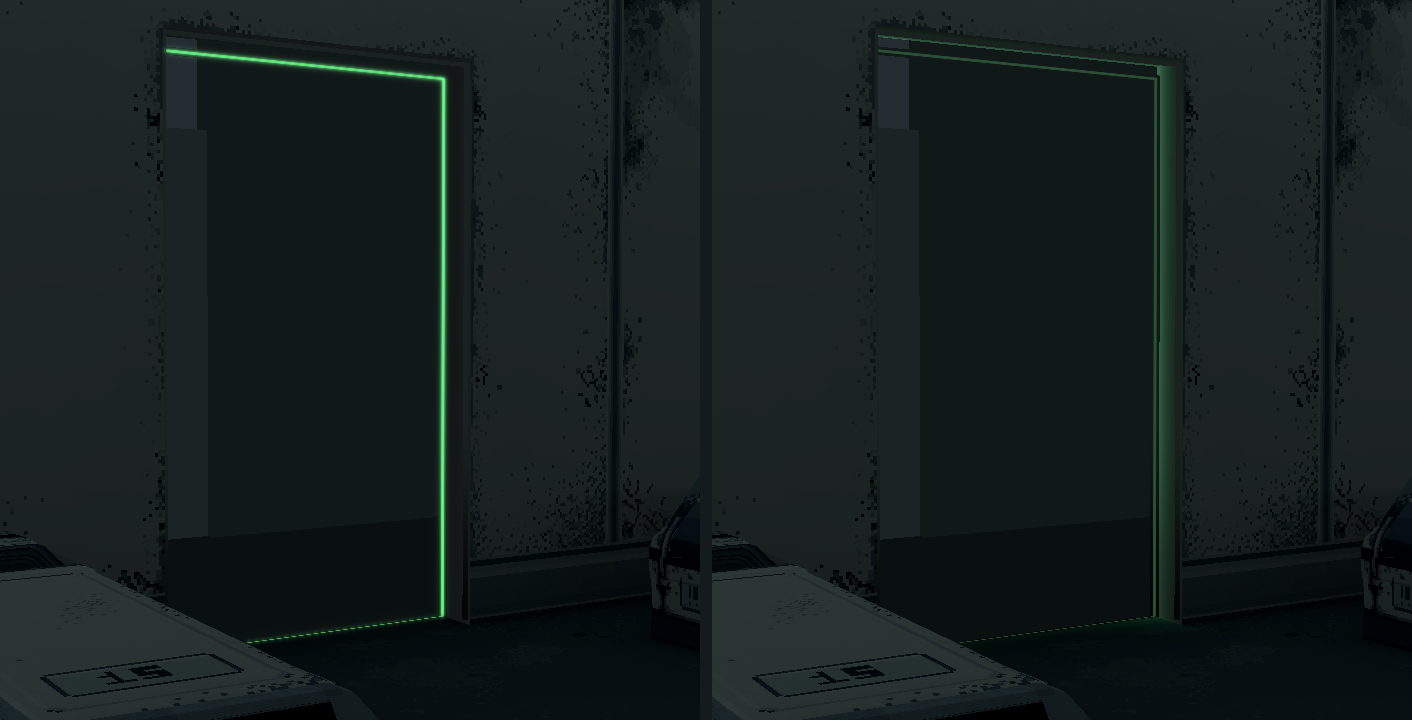
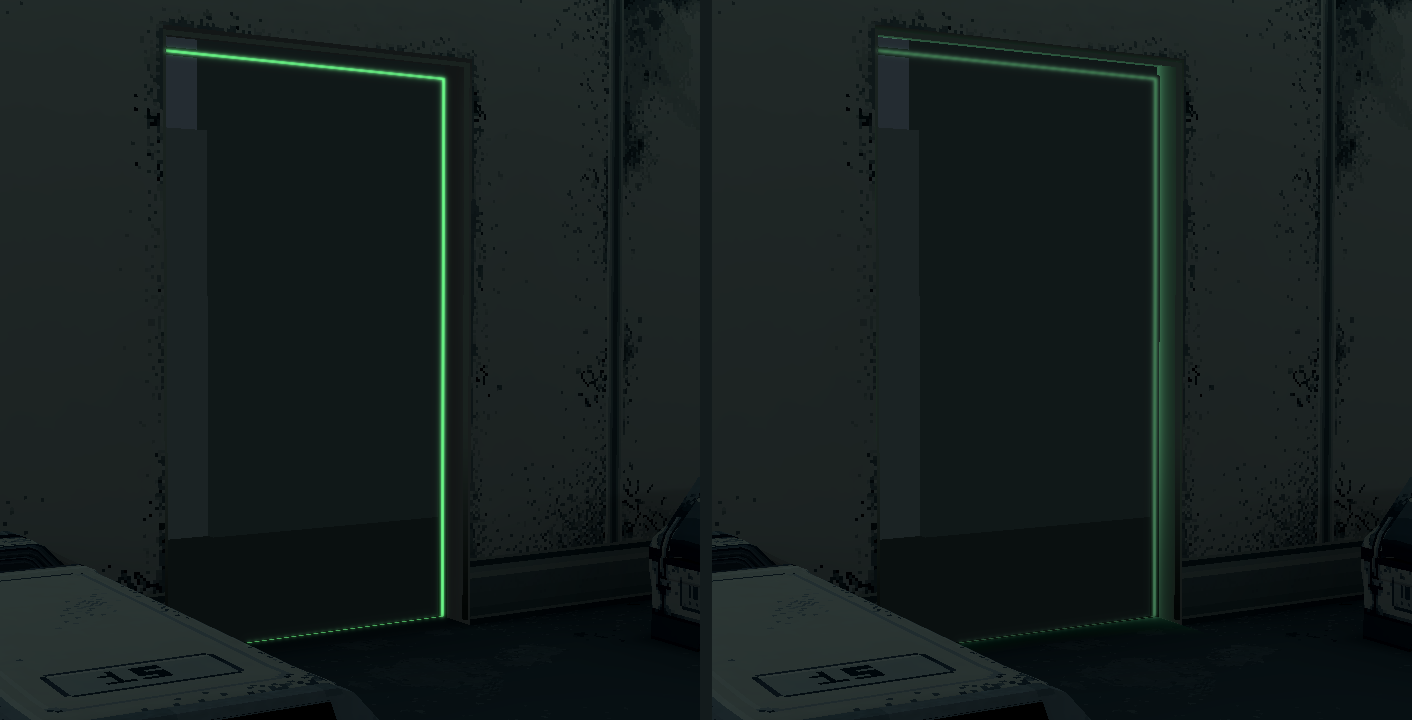
Add a weak halo back to door light B
The user asked for a little glow around the recessed core. The r18 screen
halo is re-enabled for B at strength 1.1 (it follows the 0.45 core), giving
roughly half of r18's halo with the same spread.

Changed region(s): [[0.6232, 0.0611, 0.8414, 0.8556]]

diff --git a/docs/art/PENDING_DECISIONS.md b/docs/art/PENDING_DECISIONS.md
@@ -32,7 +32,7 @@
 |---|---|---|---|---|
 | **角色当前项** | **主角 A 姿势／收袖口 v4** | v3外形方向已沿用；用户确认细密哑光、略挺的涤纶混纺机织布。PixelLab制作正面A姿势并按反馈收袖口；宽袖旧图只留来源，不作最终服装母版。[审图](experiments/protagonist_apose_v4/preview.html)／[3D检查约束](experiments/protagonist_apose_v4/README.md) | 确认袖口、轮廓和A姿势；随后补一致的侧背面，检查完再生成分件几何。 | ⏳ 本角色对话当前项：收袖口成图待审；面料已确认 |
 | **1a** | **Room 1 门面：r32 粉末涂层（颗粒强度）** | 材质已定为 M05-L。r32 用 M05-L 原生底材，叠 r30 的暗痕迹、密封边和小窗，去掉门边亮圈；亮度按墙面校准，0 次新生成。颗粒强度改过两次：第一版太花 → 第一次修订偏淡 → 现在取两者中间值（细颗粒 1.25 倍、痕迹 1.5 倍）。[r32 审图](experiments/room1_door_powder_r32/preview.html)／[说明](experiments/room1_door_powder_r32/README.md) | 确认中间值即可。 | ✅ 11/17 用户确认：采用 r32 中间值（提交 9599ce8） |
-| **1b** | **Room 1 门灯：r17 内侧灯芯＋r18 柔光** | 10/29 交付后一直**没有确认**。r17：暗色灯槽里的细窄绿 LED 漫射芯，替代整框变绿；r18：在 r17 基础上加一层屏幕空间薄柔光。另外小窗的待机色、拒绝红灯节奏，brief 里也还写着 TBD。[r17](experiments/room1_door_inner_light_r17/preview.html)／[r18](experiments/room1_door_soft_glow_r18/preview.html) | 已在 r32 门上重拍（[门灯审图 v1](experiments/room1_door_light_review_v1/preview.html)）。用户认为 r18 太亮、灯条太明显，选择做方案 B：灯芯压暗藏进槽里，门洞内侧泛光；第一版正面偏弱，已把灯芯和泛光调亮一档（[方案 B](experiments/room1_door_light_recess_b1/preview.html)）。小窗没填满、竖灯两端斜折两个小问题待灯定后再看。 | ⏳ 当前项：审方案 B |
+| **1b** | **Room 1 门灯：r17 内侧灯芯＋r18 柔光** | 10/29 交付后一直**没有确认**。r17：暗色灯槽里的细窄绿 LED 漫射芯，替代整框变绿；r18：在 r17 基础上加一层屏幕空间薄柔光。另外小窗的待机色、拒绝红灯节奏，brief 里也还写着 TBD。[r17](experiments/room1_door_inner_light_r17/preview.html)／[r18](experiments/room1_door_soft_glow_r18/preview.html) | 已在 r32 门上重拍（[门灯审图 v1](experiments/room1_door_light_review_v1/preview.html)）。用户认为 r18 太亮、灯条太明显，选择做方案 B：灯芯压暗藏进槽里，门洞内侧泛光；第一版正面偏弱，已把灯芯和泛光调亮一档，并按用户要求加回约 r18 一半的弱光晕（[方案 B](experiments/room1_door_light_recess_b1/preview.html)）。小窗没填满、竖灯两端斜折两个小问题待灯定后再看。 | ⏳ 当前项：审方案 B |
 | | *Room 1 冻结条件* | 门面（1a）和门灯（1b）都确认后，Room 1 美术整体冻结，再同步到 4F 走廊和正式 F5。 | | |
 | 2 | **楼梯 ST-01＋扶手 C 旧化 v2** | C 的形体你已认可；v2 补了环境旧化（槽底、墙脚、平台角、踏面靠墙端），中央没有踩踏磨耗。楼梯底材沿用 11/5 的局部折中稿。[审图](https://github.com/Glandy-T/echoes-of-ruin/blob/main/docs/art/experiments/cryo_handrail_age_v2/preview.md) | 采用 v2，楼梯材质一起冻结。之后的安装验证（爬楼控制器、门扫掠）是技术活。 | |
 | 3 | **楼梯分区门 FD-A／FD-B** | 路线经过楼梯间，**需要选**。A 对称双扇平整钢门；B 65/35 非对称双扇＋检修带。两款都实测了闭门阻挡和开门通行。[并排审图](https://github.com/Glandy-T/echoes-of-ruin/blob/main/docs/art/experiments/cryo_building_review_v1/preview.md) | 看缩略图凭直觉挑。 | |

diff --git a/docs/art/experiments/room1_door_light_recess_b1/README.md b/docs/art/experiments/room1_door_light_recess_b1/README.md
@@ -9,7 +9,7 @@
 ## B 做了什么
 
 1. **灯芯压暗、降饱和**：沿用 r17 的灯芯几何和着色器，只改参数：亮度 0.78 → 0.45（第一版 0.30，用户要求正面再亮一点后调高），颜色 (0.34, 0.82, 0.44) → (0.36, 0.66, 0.46)，表现为灯槽里的一条暗缝，而不是描边。
-2. **关掉 r18 的屏幕柔光**：它是绕着灯芯扩散的，会让线条显得更粗。
+2. **r18 屏幕柔光改为弱光晕**：第一版关掉了；用户随后要求"稍微加点光晕"，现以 `B_HALO_STRENGTH = 1.1` 保留（柔光随灯芯亮度变化，0.6 时几乎看不出）。游戏镜头左竖灯横截面的绿色超出量：r18 峰值约 +29、两侧约 ±4 px 内衰减；B 峰值约 +13，扩散范围相同，大约是 r18 光晕的一半。
 3. **门洞内侧泛光**：在门洞左右内壁、顶面和门槛地面上叠加一层很淡的绿光（加法混合，不改原贴图）。光从门叶后方的灯槽位置开始，往房间方向按指数衰减；门槛的光往房间里延伸约 0.6 m，靠近两侧竖槽处更亮。侧壁只在门叶让开后才亮，待机、认证、拒绝时没有任何绿光。
 
 不改门形、UV、烘焙、小窗灯语和开门逻辑；没有新生成。
@@ -18,7 +18,7 @@
 
 - **斜侧看**：门洞内壁被照亮的一片绿光能读出来，最接近"门框里藏着灯"的意图。
 - **正对的游戏镜头**：门洞内壁几乎是侧对着镜头的，泛光能露出的面积很少，所以 B 在游戏镜头里主要表现为"细而暗的线＋门槛一点微光"，比 r18 安静很多。代价是通行状态主要靠小窗绿灯和这条暗线来提示。
-- 第一版（灯芯 0.30、泛光 0.40）用户认为正面太弱，当前调为灯芯 0.45、泛光 0.50。游戏镜头门区：r18 灯芯最亮处绿通道 171，B 当前为 107；可见绿色像素 r18 为 2482 个，B 为 642 个，即线条仍比 r18 细而暗，但能读出通行状态。可调参数为 `B_PHOSPHOR.phosphor_energy` 和 `wash_energy`。
+- 第一版（灯芯 0.30、泛光 0.40、无光晕）用户认为正面太弱；第二步调为灯芯 0.45、泛光 0.50；第三步加回弱光晕。游戏镜头门区：r18 灯芯最亮处绿通道 171，B 当前为 107；可见绿色像素 r18 为 2482 个，B 为 642 个，即线条仍比 r18 细而暗，但能读出通行状态。可调参数为 `B_PHOSPHOR.phosphor_energy` 和 `wash_energy`。
 
 ## 复现
 
